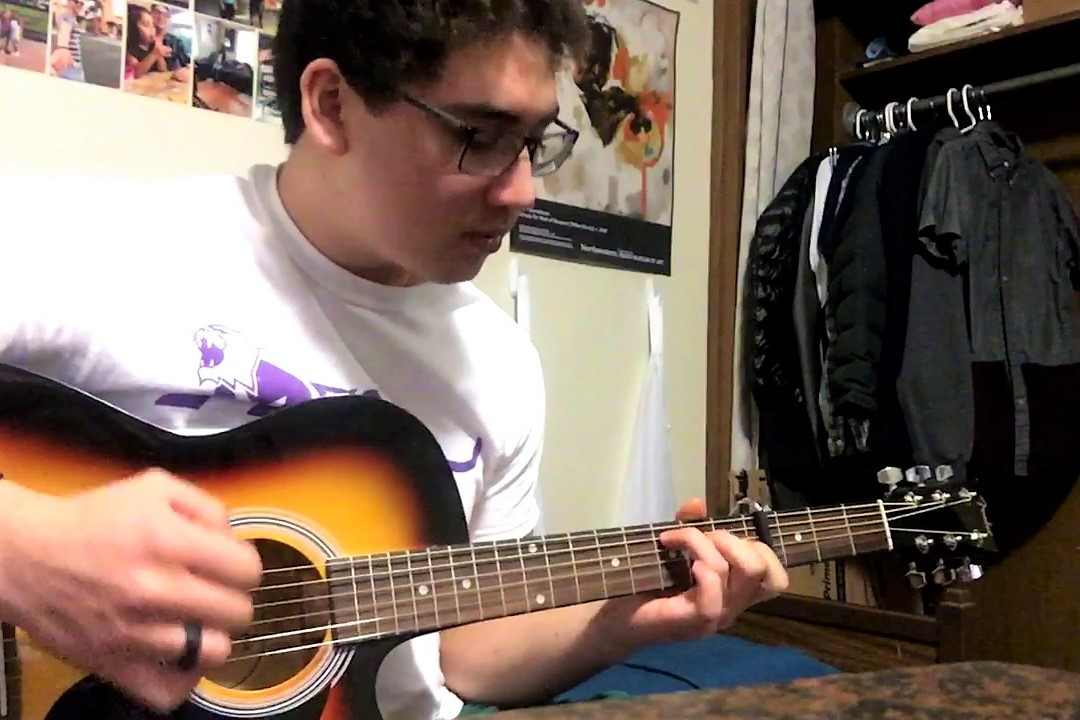
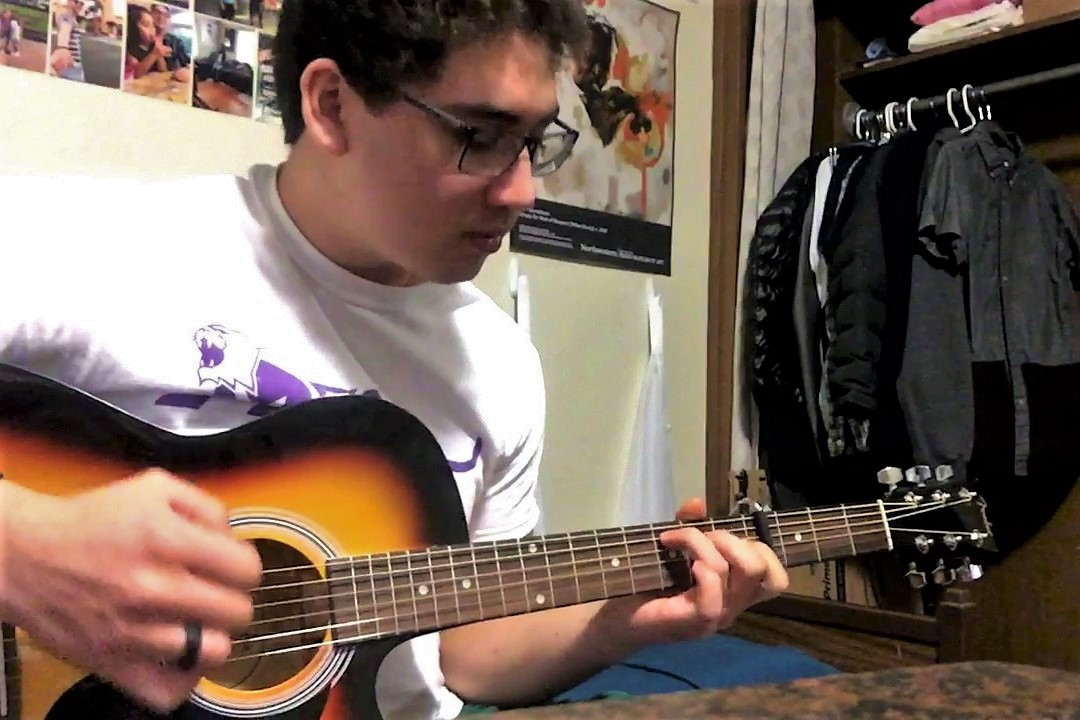
update guitar pics

diff --git a/about-music.html b/about-music.html
@@ -28,7 +28,7 @@
 						<h3>Singing My Heart Out</h3>
 						<p>After some basic piano lessons in elementary school, I joined the school choir in seventh
 							grade, paving the way for some tremendous friendships. In high school, I started individual
-							voice lessons in order to better contribute to our group’s musicality. As a result, I was
+							voice lessons in order to better contribute to our group's musicality. As a result, I was
 							invited and contributed to the ACDA All-Northwest chorus in eleventh grade. Our high school
 							choir routinely competed in the Oregon State Choir Championships and our choir placed first
 							when I was in eleventh grade.</p>
@@ -53,7 +53,7 @@
 					<div class="half_column">
 						<img srcset="
 							./images/about/music/guitar_400_w.webp 400w,
-							./images/about/music/guitar_1000_w.webp 800w" sizes="(max-width: 980px) 100vw, 55vw" loading="lazy"
+							./images/about/music/guitar_2022_1000_w.webp 800w" sizes="(max-width: 980px) 100vw, 55vw" loading="lazy"
 							decoding="async" src="./images/about/music/guitar.JPG" alt="Guitar">
 						<img srcset="
 							./images/about/music/guitar_2017_400_w.webp 400w,

diff --git a/images/image_generator.py b/images/image_generator.py
@@ -89,7 +89,7 @@ if __name__ == "__main__":
     # convert_folder(r"about\principles", [500, 1000, 2000])
     # convert_folder(r"about\learning", [500, 1000, 2000], include=['background'])
     # convert_folder(r"about\learning", [400, 1000], exclude=["background"])
-    # convert_folder(r"about\music", [400, 1000])
+    convert_folder(r"about\music", [400, 1000])
     # convert_folder(r"about\swim", [400, 1000])
 
     ## HEADERS
@@ -113,6 +113,6 @@ if __name__ == "__main__":
     # convert_folder(r"contact", [500], exclude=["affiliated", "background"])
 
     ## FAMILY TREE
-    convert_folder(r"family_tree", [50, 100])
+    # convert_folder(r"family_tree", [50, 100])
 
     print("Done.")
